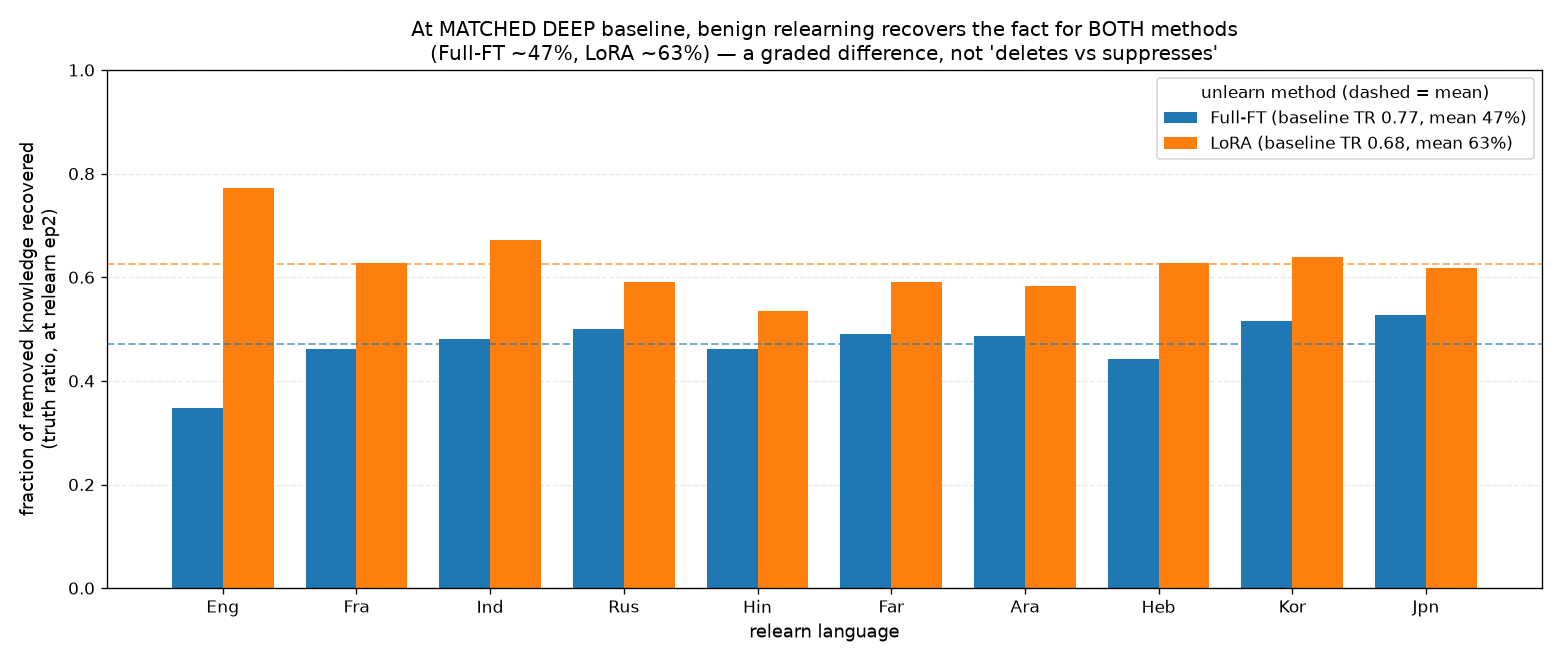
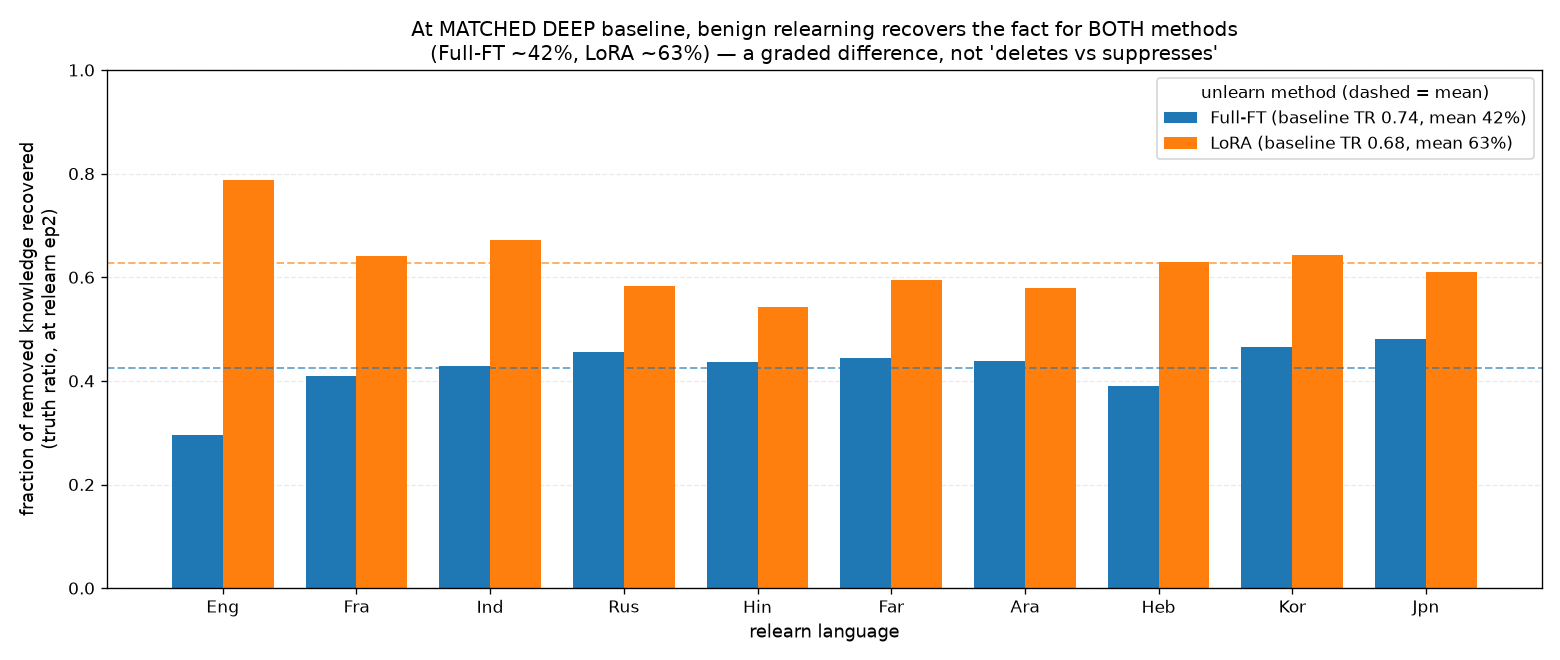
phase1: regenerate figures on complete ep2 data; derive titles from the data
The ep2 row is now complete for both methods across all 10 languages, and both
unlearned baselines carry per-fact arrays, so every crosslingual_deep figure is
regenerated on the full set. LoRA previously had no per-fact data at all, which
left bootstrap_recovery_ci unable to run for that method.

Four figures carried percentages hardcoded into their titles, and all four had
gone stale: remeasuring the Full-FT baseline with per-fact arrays moved its
truth ratio 0.767 -> 0.743, which changes the recovery denominator. The
fraction-recovered title claimed "Full-FT ~47%" where the data says 42%, and
the overlap tables claimed "44-53% FT" where the range is 39-48%. All titles
now compute their numbers from the same arrays the figures plot.

plot_truthratio_absolute also now names the epoch it reports. It reads the last
epoch plotted (ep4) while fraction_recovered reports ep2, and LoRA keeps
recovering between them (~63% -> ~77%), so an unlabelled percentage read as a
contradiction between two figures of the same experiment.

Phase 1 results on the complete data: vocabulary overlap with English falls
0.23 -> 0.02 down the rows while recovery stays flat (39-48% Full-FT, 54-67%
LoRA), so recovery does not track vocab overlap. Both methods recover
substantially; LoRA more, though its baseline was less deeply unlearned
(0.678 vs 0.743), so the gap is not purely a method effect.

Claude-Session: https://claude.ai/code/session_01EURqZL7jd7Jw7i1NWkFUF5

diff --git a/studies/crosslingual_recovery/plots/plot_truthratio_absolute.py b/studies/crosslingual_recovery/plots/plot_truthratio_absolute.py
@@ -81,9 +81,26 @@ def main():
         ax.set_xlabel("relearn epochs", fontsize=9)
     for ax in (axes[0], axes[5]):
         ax.set_ylabel("truth ratio\n(↓ lower = knows the fact)", fontsize=9)
+    # Fraction of the removed knowledge recovered at the last epoch plotted, computed
+    # from the same series the panels draw -- hardcoding it went stale as soon as the
+    # baselines were remeasured with per-fact arrays.
+    frac = {}
+    for m, (label, color, base_tr, per) in rows.items():
+        vals = [(base_tr - per[l][max(per[l])]) / (base_tr - LEARNED_TR)
+                for l in per if per[l]]
+        if vals:
+            frac[label] = sum(vals) / len(vals)
+    # State the epoch: this figure reads the LAST epoch plotted (ep4), while
+    # fraction_recovered.py reports ep2 -- LoRA keeps recovering between them
+    # (~63% -> ~77%), so an unlabelled percentage invites a contradiction.
+    # per is {lang: {epoch: truth_ratio}} -- iterate INTO the inner dict for epochs.
+    last_ep = max((e for _, _, _, per in rows.values() for l in per for e in per[l]),
+                  default=None)
+    tail = ("; ".join(f"{m} ~{v:.0%}" for m, v in frac.items())
+            + f" of room at ep{last_ep}" if frac else "")
     fig.suptitle("Truth ratio vs relearn epochs — MATCHED DEEP baseline. BOTH methods "
-                 "recover (drop toward 'fact known'); LoRA somewhat more (~63% vs ~47% of "
-                 "room). Lower = knows the fact.", fontsize=12)
+                 f"recover (drop toward 'fact known'): {tail}. "
+                 "Lower = knows the fact.", fontsize=12)
     fig.tight_layout(rect=(0, 0, 1, 0.96))
     FIGS.mkdir(parents=True, exist_ok=True)
     out = FIGS / "truthratio_absolute.png"

diff --git a/studies/crosslingual_recovery/plots/plot_overlap_recovery_table_flores.py b/studies/crosslingual_recovery/plots/plot_overlap_recovery_table_flores.py
@@ -82,10 +82,19 @@ def main():
             cellobj.set_text_props(weight="bold", color="white"); cellobj.set_facecolor("#333333")
         if c == 0 and r > 0:
             cellobj.set_text_props(weight="bold")
+    # Every number in the title is computed, never hardcoded -- these ranges shift
+    # whenever the baselines are remeasured, and a stale title is exactly the sort of
+    # error that survives into a writeup unnoticed. English is excluded from the ranges
+    # because relearning in the SAME language is the trivial case (ftv/lov are the
+    # non-English values already used for the colour scale).
+    nz = [l for l in langs if l != "en"]
+    ov_hi, ov_lo = JACCARD[nz[0]], JACCARD[nz[-1]]
     ax.set_title("Vocabulary overlap with English (FLORES-200, CLC Jaccard) vs fact recovery\n"
-                 "overlap falls 0.23 → 0.02 down the rows, but recovery stays flat "
-                 "(~44–53% FT, ~54–67% LoRA)\n→ recovery does NOT track vocab overlap  "
-                 "[provisional: single seed, ep2]", fontsize=11, pad=14)
+                 f"overlap falls {ov_hi:.2f} → {ov_lo:.2f} down the rows, but recovery stays flat "
+                 f"(~{min(ftv):.0%}–{max(ftv):.0%} FT, ~{min(lov):.0%}–{max(lov):.0%} LoRA)"
+                 "\n→ recovery does NOT track vocab overlap  "
+                 "[provisional: single seed, ep2; English row excluded from the ranges]",
+                 fontsize=11, pad=14)
     fig.tight_layout()
     FIGS.mkdir(parents=True, exist_ok=True)
     out = FIGS / "overlap_recovery_table_flores.png"

diff --git a/studies/crosslingual_recovery/plots/plot_fraction_recovered.py b/studies/crosslingual_recovery/plots/plot_fraction_recovered.py
@@ -56,9 +56,11 @@ def main():
     xs = list(range(len(LANGS)))
     w = 0.38
     fig, ax = plt.subplots(figsize=(13, 5.5))
+    means = {}
     for i, (m, (label, color, fr, bTR)) in enumerate(data.items()):
         off = (i - 0.5) * w
         mean = sum(fr) / len(fr)
+        means[label] = mean
         ax.bar([x + off for x in xs], fr, w, color=color,
                label=f"{label} (baseline TR {bTR:.2f}, mean {mean:.0%})")
         ax.axhline(mean, color=color, ls="--", lw=1.2, alpha=0.6)
@@ -68,8 +70,13 @@ def main():
     ax.set_ylim(0, 1.0)
     ax.grid(True, axis="y", alpha=0.25, ls="--"); ax.set_axisbelow(True)
     ax.legend(fontsize=10, title="unlearn method (dashed = mean)")
+    # Computed from the data, never hardcoded: the numbers move whenever the baselines
+    # are remeasured (the Full-FT baseline TR shifted 0.767 -> 0.743 when per-fact
+    # arrays were added), and a stale figure title is the kind of error that survives
+    # into a writeup unnoticed.
+    subtitle = ", ".join(f"{k} ~{v:.0%}" for k, v in means.items())
     ax.set_title("At MATCHED DEEP baseline, benign relearning recovers the fact for BOTH "
-                 "methods\n(Full-FT ~47%, LoRA ~63%) — a graded difference, not "
+                 f"methods\n({subtitle}) — a graded difference, not "
                  "'deletes vs suppresses'", fontsize=12)
     fig.tight_layout()
     FIGS.mkdir(parents=True, exist_ok=True)

diff --git a/studies/crosslingual_recovery/plots/plot_overlap_recovery_table.py b/studies/crosslingual_recovery/plots/plot_overlap_recovery_table.py
@@ -86,10 +86,16 @@ def main():
             cellobj.set_text_props(color="white")
         if c == 0 and r > 0:
             cellobj.set_text_props(weight="bold")
+    # Computed, never hardcoded -- see the FLORES twin. English is excluded from the
+    # ranges because relearning in the SAME language is the trivial case.
+    nz = [l for l in langs if l != "en"]
+    ov_hi, ov_lo = JACCARD[nz[0]], JACCARD[nz[-1]]
     ax.set_title("Vocabulary overlap with English vs fact recovery (rows sorted by overlap)\n"
-                 "overlap falls 0.31 → 0.05 down the rows, but recovery stays flat "
-                 "(~44–53% FT, ~54–67% LoRA)\n→ recovery does NOT track vocab overlap  "
-                 "[provisional: single seed, ep2]", fontsize=11, pad=14)
+                 f"overlap falls {ov_hi:.2f} → {ov_lo:.2f} down the rows, but recovery stays flat "
+                 f"(~{min(ftv):.0%}–{max(ftv):.0%} FT, ~{min(lov):.0%}–{max(lov):.0%} LoRA)"
+                 "\n→ recovery does NOT track vocab overlap  "
+                 "[provisional: single seed, ep2; English row excluded from the ranges]",
+                 fontsize=11, pad=14)
     fig.tight_layout()
     FIGS.mkdir(parents=True, exist_ok=True)
     out = FIGS / "overlap_recovery_table.png"
